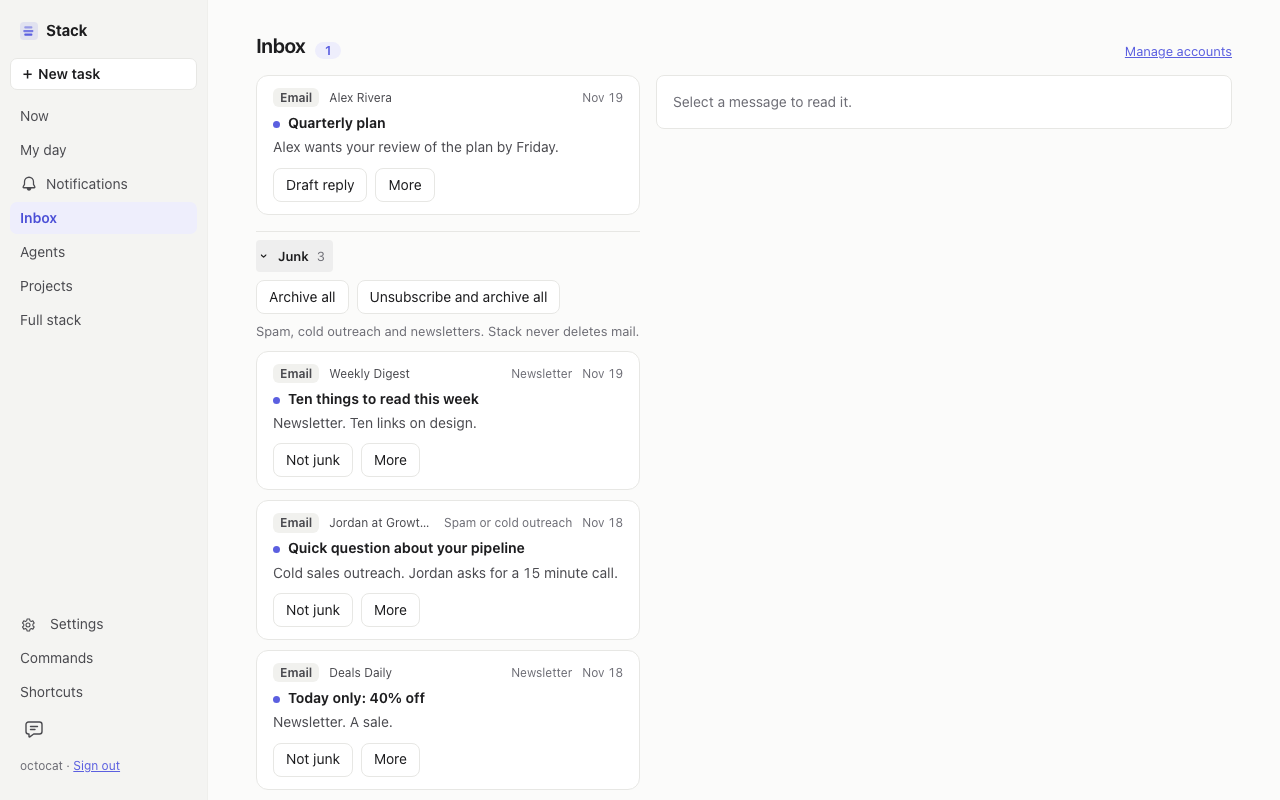
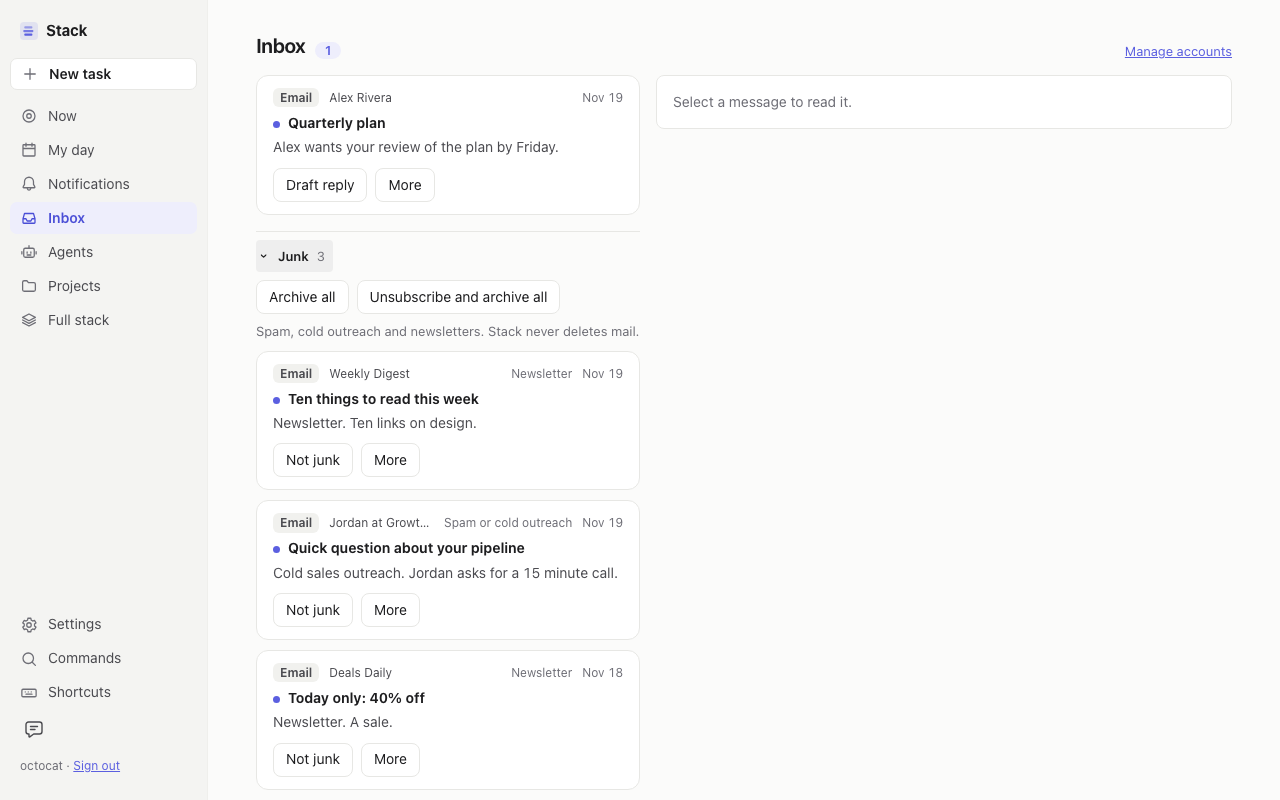
fix(inbox-page): Clear only the junk rows the owner sees, from a form

diff --git a/tests/api/inbox-junk.test.ts b/tests/api/inbox-junk.test.ts
@@ -1,9 +1,11 @@
 import { createApiHandler, ROUTES } from '../../src/api/handler';
 import { routeScope } from '../../src/api';
 import { MemoryStorage } from '../../src/core/storage';
+import { mailWrites } from '../../src/cli/web';
 import { INBOX_PATH, type InboxItem, type JunkMailbox } from '../../src/inbox';
 
 const item = (o: Partial<InboxItem> = {}): InboxItem => ({ id: 'mail-aaaaaaaaaaaa', source: 'email', account: 'me@example.test', from: 'Weekly Digest', subject: 'Ten things', receivedAt: '2026-10-28T09:00:00Z', unread: true, urgency: 0, summary: 'Newsletter.', suggested: 'unsubscribe', actions: ['not-junk'], messageId: 'AAMk1', kind: 'newsletter', ...o });
+const IDS = ['mail-aaaaaaaaaaaa', 'mail-bbbbbbbbbbbb'];
 const OWNER = { 'x-ms-client-principal': Buffer.from(JSON.stringify({ userDetails: 'me', identityProvider: 'github', userRoles: ['authenticated'] })).toString('base64'), 'content-type': 'application/json' };
 
 async function mk(junkMailbox?: (account: string) => Promise<JunkMailbox | undefined>) {
@@ -23,14 +25,16 @@ describe('POST /inbox-junk', () => {
   it('archives the junk and answers the counts', async () => {
     const log: string[] = [];
     const { call } = await mk(async () => ({ archive: async (ids) => { log.push(`archive ${ids.join(',')}`); return ids; }, unsubscribe: async (id) => { log.push(`unsubscribe ${id}`); return true; } }));
-    expect((await call('POST', '/inbox-junk', { action: 'unsubscribe-archive' })).json).toEqual({ archived: 1, unsubscribed: 1, kept: 0 });
+    expect((await call('POST', '/inbox-junk', { action: 'unsubscribe-archive', ids: IDS })).json).toEqual({ archived: 1, unsubscribed: 1, kept: 0 });
     expect(log).toEqual(['unsubscribe AAMk1', 'archive AAMk1']);
     expect((await call('GET', '/inbox-items')).json.items.map((i: InboxItem) => i.id)).toEqual(['mail-bbbbbbbbbbbb']);
   });
   // @req FR:inbox-page/junk.archive.readonly
   it('keeps everything on a host that cannot write to the mailbox', async () => {
     const { call } = await mk();
-    expect((await call('POST', '/inbox-junk', { action: 'archive' })).json).toEqual({ archived: 0, unsubscribed: 0, kept: 1 });
+    expect((await call('POST', '/inbox-junk', { action: 'archive', ids: IDS })).json).toEqual({ archived: 0, unsubscribed: 0, kept: 1 });
+    expect((await call('POST', '/inbox-junk', { action: 'archive' })).status).toBe(422);
+    expect((await call('POST', '/inbox-junk', { action: 'archive', ids: [] })).json).toEqual({ archived: 0, unsubscribed: 0, kept: 0 });
   });
   // @req FR:inbox-page/junk.never.auto
   it('a read of the inbox never touches the mailbox', async () => {
@@ -42,8 +46,13 @@ describe('POST /inbox-junk', () => {
   // @req FR:inbox-page/junk.api.owner
   it('refuses a token and an unknown action', async () => {
     const { call } = await mk();
-    expect((await call('POST', '/inbox-junk', { action: 'archive' }, { authorization: 'Bearer stk_0123456789abcdef.secret', 'content-type': 'application/json' })).status).toBe(403);
-    expect((await call('POST', '/inbox-junk', { action: 'delete' })).status).toBe(422);
+    expect((await call('POST', '/inbox-junk', { action: 'archive', ids: IDS }, { authorization: 'Bearer stk_0123456789abcdef.secret', 'content-type': 'application/json' })).status).toBe(403);
+    expect((await call('POST', '/inbox-junk', { action: 'delete', ids: IDS })).status).toBe(422);
+  });
+  // @req FR:inbox-page/junk.never.demo
+  it('a demo copy gets no mailbox writer', () => {
+    expect(mailWrites(true)).toEqual({});
+    expect(Object.keys(mailWrites(false))).toEqual(['junkMailbox']);
   });
   // @req FR:inbox-page/junk.restore
   it('not-junk runs through the action route', async () => {

diff --git a/tests/inbox/junk.test.ts b/tests/inbox/junk.test.ts
@@ -41,6 +41,7 @@ describe('not-junk', () => {
   });
 });
 
+const ALL = ['mail-aaaaaaaaaaaa', 'mail-bbbbbbbbbbbb', 'mail-cccccccccccc', 'mail-dddddddddddd', 'mail-eeeeeeeeeeee', 'mail-ffffffffffff'];
 function box(o: { fail?: string[]; oneClick?: string[] } = {}) {
   const log: string[] = [];
   const mailbox: JunkMailbox = {
@@ -55,27 +56,36 @@ describe('clearJunk', () => {
   it('archives exactly the junk ids of each writable account and removes those items', async () => {
     const ctx = await mk([item(), SPAM, REAL, OTHER, item({ id: 'mail-eeeeeeeeeeee', messageId: 'AAMk5', notJunk: true })]);
     const b = box();
-    const r = await clearJunk(ctx, { unsubscribe: false, mailbox: async (a) => (a === 'me@example.test' ? b.mailbox : undefined) });
+    const r = await clearJunk(ctx, { ids: ALL, unsubscribe: false, mailbox: async (a) => (a === 'me@example.test' ? b.mailbox : undefined) });
     expect(b.log).toEqual(['archive AAMk1,AAMk2']);
     expect(r).toEqual({ archived: 2, unsubscribed: 0, kept: 1 });
     expect((await readInbox(ctx.storage)).map((i) => i.id).sort()).toEqual(['mail-cccccccccccc', 'mail-dddddddddddd', 'mail-eeeeeeeeeeee']);
   });
+  // @req FR:inbox-page/junk.archive.shown
+  it('leaves alone junk the owner did not see: only the listed ids move or unsubscribe', async () => {
+    const ctx = await mk([item(), SPAM, item({ id: 'mail-ffffffffffff', messageId: 'AAMk6' })]);
+    const b = box({ oneClick: ['AAMk1', 'AAMk6'] });
+    const r = await clearJunk(ctx, { ids: ['mail-aaaaaaaaaaaa', 'mail-cccccccccccc', 'nope'], unsubscribe: true, mailbox: async () => b.mailbox });
+    expect(b.log).toEqual(['unsubscribe AAMk1', 'archive AAMk1']);
+    expect(r).toEqual({ archived: 1, unsubscribed: 1, kept: 0 });
+    expect((await readInbox(ctx.storage)).map((i) => i.id).sort()).toEqual(['mail-bbbbbbbbbbbb', 'mail-ffffffffffff']);
+  });
   it('keeps an item whose move failed', async () => {
     const ctx = await mk([item(), SPAM]);
-    const r = await clearJunk(ctx, { unsubscribe: false, mailbox: async () => box({ fail: ['AAMk2'] }).mailbox });
+    const r = await clearJunk(ctx, { ids: ALL, unsubscribe: false, mailbox: async () => box({ fail: ['AAMk2'] }).mailbox });
     expect(r).toEqual({ archived: 1, unsubscribed: 0, kept: 1 });
     expect((await readInbox(ctx.storage)).map((i) => i.id)).toEqual(['mail-bbbbbbbbbbbb']);
   });
   it('unsubscribes newsletters only, before the archive, and counts the one-click ones', async () => {
     const ctx = await mk([item(), SPAM, item({ id: 'mail-ffffffffffff', messageId: 'AAMk6' })]);
     const b = box({ oneClick: ['AAMk1'] });
-    const r = await clearJunk(ctx, { unsubscribe: true, mailbox: async () => b.mailbox });
+    const r = await clearJunk(ctx, { ids: ALL, unsubscribe: true, mailbox: async () => b.mailbox });
     expect(b.log).toEqual(['unsubscribe AAMk1', 'unsubscribe AAMk6', 'archive AAMk1,AAMk2,AAMk6']);
     expect(r).toEqual({ archived: 3, unsubscribed: 1, kept: 0 });
   });
   it('a mailbox that throws keeps its items', async () => {
     const ctx = await mk([item()]);
-    const r = await clearJunk(ctx, { unsubscribe: true, mailbox: async () => ({ archive: async () => { throw new Error('x'); }, unsubscribe: async () => { throw new Error('y'); } }) });
+    const r = await clearJunk(ctx, { ids: ALL, unsubscribe: true, mailbox: async () => ({ archive: async () => { throw new Error('x'); }, unsubscribe: async () => { throw new Error('y'); } }) });
     expect(r).toEqual({ archived: 0, unsubscribed: 0, kept: 1 });
     expect(await readInbox(ctx.storage)).toHaveLength(1);
   });

diff --git a/src/cli/web.ts b/src/cli/web.ts
@@ -86,6 +86,9 @@ export function prepareDemo(repo: string, dest: string, reset = false): void {
 }
 
 /** What the UI header shows at all times. */
+/** Mailbox writers for the API. A demo copy gets none: it never writes to a real mailbox. @req FR:inbox-page/junk.never.demo */
+export const mailWrites = (demo: boolean) => (demo ? {} : { junkMailbox: createJunkMailboxes() });
+
 export interface RepoInfo { mode: 'demo' | 'live'; repo: string; branch: string }
 export interface WebOpts {
   dir: string; port: number; webDir: string; label?: string; info?: RepoInfo; watch?: { debounceMs?: number; heartbeatMs?: number; onRaw?: (file: string) => void; watchFn?: WatchOptions['watchFn'] };
@@ -353,7 +356,7 @@ export async function startWeb(o: WebOpts): Promise<WebServer> {
     ...(agents && inventory ? { leads: { runs: agents, inventory, readDef: async (p: string) => { const f = resolve(o.dir, p); if (!f.startsWith(resolve(o.dir) + sep)) return null; try { return readFileSync(f, 'utf8'); } catch { return null; } } } } : {}) };
   const deliveryLoop = dd && dd.settings.mode === 'claude' ? startDeliveryLoop(dd, { intervalMs: o.delivery ? o.delivery.intervalMs : undefined, onError: (e) => console.error(`delivery: ${e instanceof Error ? e.message : 'error'}`) }) : undefined;
   const delivery = dd ? { status: (ref: string) => deliveryStatus(dd, ref, inventory), summary: () => ({ mode: dd.settings.mode, login: dd.store.read().login.state }), login: () => (o.delivery && o.delivery.login ? o.delivery.login() : startLogin()) } : undefined;
-  const apiDeps = { storage, config, reports, inventory, agentScan, delivery, pris, prPriority, feedback, qm, designReview: o.designReview ?? createDesignReview({ filer: ghIssueFiler() }), ...(prPage ?? {}), ...(prServers ? { prServers } : {}), live, briefs: new BriefStore(laneHome), facts: new FactsStore(laneHome), onError: (e: unknown) => console.error(e), prs, calendar: cal.provider, agents, brief: createClaudeJson(), inboxProbe: o.inboxProbe ?? cachedProbe({ health }), mailReader: o.mailReader ?? createMailReaders(), /* A demo copy never writes to a real mailbox. */ ...(o.info?.mode === 'demo' ? {} : { junkMailbox: createJunkMailboxes() }), ...(o.app ? { app: o.app } : {}), ...(connect ? { connect } : {}) };
+  const apiDeps = { storage, config, reports, inventory, agentScan, delivery, pris, prPriority, feedback, qm, designReview: o.designReview ?? createDesignReview({ filer: ghIssueFiler() }), ...(prPage ?? {}), ...(prServers ? { prServers } : {}), live, briefs: new BriefStore(laneHome), facts: new FactsStore(laneHome), onError: (e: unknown) => console.error(e), prs, calendar: cal.provider, agents, brief: createClaudeJson(), inboxProbe: o.inboxProbe ?? cachedProbe({ health }), mailReader: o.mailReader ?? createMailReaders(), ...mailWrites(o.info?.mode === 'demo'), ...(o.app ? { app: o.app } : {}), ...(connect ? { connect } : {}) };
   const api = createApiHandler({ ...apiDeps, authorize: () => true });
   // Device self endpoints (push subscription) run as the device token through the auth-security hook; no owner list, so no session ever matches. @req FR:tailnet-access/gate.scope
   const auth = remoteAuth ? createAuth({ owners: [], tokens: remoteAuth.tokens, devices: remoteAuth.devices, vapidPublicKey: process.env.STACK_VAPID_PUBLIC_KEY?.trim() || undefined }) : undefined;

diff --git a/web/src/InboxView.tsx b/web/src/InboxView.tsx
@@ -175,7 +175,7 @@ export function InboxView({ api, toast, onStatus, refresh }: { api: Client; toas
   /** One click clears the junk: the server moves it to Archive (never deletes) and answers the counts. @req FR:inbox-page/junk.archive @req FR:inbox-page/junk.unsubscribe */
   const clear = async (action: 'archive' | 'unsubscribe-archive') => {
     setClearing(true);
-    try { toast(junkToast(await api.inboxJunk(action))); await load(); } catch (e) { toast(e instanceof ApiFailure ? e.message : 'Could not clear Junk. Try again.', 'err'); }
+    try { toast(junkToast(await api.inboxJunk(action, junk.map((i) => i.id)))); await load(); } catch (e) { toast(e instanceof ApiFailure ? e.message : 'Could not clear Junk. Try again.', 'err'); }
     setClearing(false);
   };
   /** Not junk keeps the row and moves it to the list; every other action removes the row. */
@@ -198,14 +198,13 @@ export function InboxView({ api, toast, onStatus, refresh }: { api: Client; toas
           reader wide={wide} open={!!open} label="Message" empty="Select a message to read it." onBack={() => setSel(null)}
           list={(
             <>
-              {main.length === 0 && <p class="in-status" role="status">No mail needs you.</p>}
               <ul class="in-list">{main.map((r) => row(r, false))}</ul>
               {junk.length > 0 && (
                 <Fold id="inbox-junk" title="Junk" count={junk.length} aside={(
-                  <>
-                    <button type="button" class="btn" disabled={clearing} onClick={() => void clear('archive')}>Archive all</button>
-                    <button type="button" class="btn" disabled={clearing} onClick={() => void clear('unsubscribe-archive')}>Unsubscribe and archive all</button>
-                  </>
+                  <form class="in-junk-form" onSubmit={(e) => { e.preventDefault(); void clear(((e as SubmitEvent).submitter as HTMLButtonElement | null)?.value === 'unsubscribe-archive' ? 'unsubscribe-archive' : 'archive'); }}>
+                    <button type="submit" class="btn" value="archive" disabled={clearing}>Archive all</button>
+                    <button type="submit" class="btn" value="unsubscribe-archive" disabled={clearing}>Unsubscribe and archive all</button>
+                  </form>
                 )}>
                   <p class="in-junk-note">Spam, cold outreach and newsletters. Stack never deletes mail.</p>
                   <ul class="in-list">{junk.map((r) => row(r, true))}</ul>

diff --git a/src/api/handler.ts b/src/api/handler.ts
@@ -339,8 +339,8 @@ const INBOX_ACTION_BODY = {
   required: ['action'],
 };
 const INBOX_JUNK_BODY = {
-  schema: { action: { t: 'enum', values: ['archive', 'unsubscribe-archive'] } } satisfies Record<string, Spec>,
-  required: ['action'],
+  schema: { action: { t: 'enum', values: ['archive', 'unsubscribe-archive'] }, ids: { t: 'strs', max: 500 } } satisfies Record<string, Spec>,
+  required: ['action', 'ids'],
 };
 const ASK_HANDLE_BODY = {
   schema: { outcome: { t: 'enum', values: ASK_OUTCOMES }, note: { t: 'str', max: 500, line: true }, reply: { t: 'str', max: 1000, line: true } } satisfies Record<string, Spec>,
@@ -1246,8 +1246,8 @@ export const ROUTES: Route[] = [
     async run(c) {
       noQuery(c);
       ownerOnly(c, 'Only the owner can act on the inbox'); // @req FR:inbox-page/junk.api.owner
-      const b = validate<{ action: 'archive' | 'unsubscribe-archive' }>(await readBody(c.req), INBOX_JUNK_BODY.schema, INBOX_JUNK_BODY.required);
-      return json(200, await clearJunk(c.life, { unsubscribe: b.action === 'unsubscribe-archive', mailbox: c.deps.junkMailbox ?? (async () => undefined) }));
+      const b = validate<{ action: 'archive' | 'unsubscribe-archive'; ids: string[] }>(await readBody(c.req), INBOX_JUNK_BODY.schema, INBOX_JUNK_BODY.required);
+      return json(200, await clearJunk(c.life, { ids: b.ids, unsubscribe: b.action === 'unsubscribe-archive', mailbox: c.deps.junkMailbox ?? (async () => undefined) }));
     },
   },
   {

diff --git a/src/api/openapi.ts b/src/api/openapi.ts
@@ -299,7 +299,8 @@ const DOCS: Record<string, RouteDoc> = {
     responses: ok('Detail', { type: 'object', properties: { item: { type: 'object' }, live: { type: 'boolean' }, message: { type: 'object' }, thread: { type: 'array', items: { type: 'object' } } } }),
   },
   'inboxJunk.clear': {
-    operationId: 'clearInboxJunk', summary: 'Clear the Inbox junk (email items of kind spam or newsletter that the owner did not restore): move each to Archive, with unsubscribe-archive after a one-click unsubscribe where the sender offers one. Never deletes. kept counts items that stay (a read-only account, a failed move). Owner session only: 403 for tokens',
+    operationId: 'clearInboxJunk', summary: 'Clear the Inbox junk (email items of kind spam or newsletter that the owner did not restore): move each listed item (ids: the junk rows the owner sees) to Archive, with unsubscribe-archive after a one-click unsubscribe where the sender offers one. Junk not in ids is left alone. Never deletes. kept counts items that stay (a read-only account, a failed move). Owner session only: 403 for tokens',
+    desc: { ids: 'Item ids of the junk rows shown to the owner' },
     responses: ok('Counts', { type: 'object', properties: { archived: { type: 'integer' }, unsubscribed: { type: 'integer' }, kept: { type: 'integer' } } }),
   },
   'inboxSources.list': {

diff --git a/web/e2e/inbox-junk.spec.ts b/web/e2e/inbox-junk.spec.ts
@@ -58,7 +58,7 @@ test('Archive all clears the junk in one click and says what stays', async ({ pa
   await junkBtn(page).click();
   await page.getByRole('button', { name: 'Archive all', exact: true }).click();
   await expect(page.getByText('Archived 2. 1 stays: Stack cannot move that mail.')).toBeVisible();
-  expect(m.calls.at(-1)).toEqual({ path: '/inbox-junk', body: { action: 'archive' } });
+  expect(m.calls.at(-1)).toEqual({ path: '/inbox-junk', body: { action: 'archive', ids: ['mail-bbbbbbbbbbbb', 'mail-cccccccccccc', 'mail-dddddddddddd'] } });
   await expect(page.locator('#inbox-junk .in-row')).toHaveCount(1);
   await expect(page.locator('.in-row').first()).toContainText('Quarterly plan');
 });
@@ -68,5 +68,5 @@ test('Unsubscribe and archive all sends one request', async ({ page }) => {
   await junkBtn(page).click();
   await page.getByRole('button', { name: 'Unsubscribe and archive all' }).click();
   await expect(page.getByText('Unsubscribed from 1. Archived 2. 1 stays: Stack cannot move that mail.')).toBeVisible();
-  expect(m.calls.at(-1)).toEqual({ path: '/inbox-junk', body: { action: 'unsubscribe-archive' } });
+  expect(m.calls.at(-1)).toEqual({ path: '/inbox-junk', body: { action: 'unsubscribe-archive', ids: ['mail-bbbbbbbbbbbb', 'mail-cccccccccccc', 'mail-dddddddddddd'] } });
 });

diff --git a/web/e2e/mock.ts b/web/e2e/mock.ts
@@ -117,7 +117,7 @@ export async function mockApi(page: Page, opts: { tasks?: MockTask[]; agents?: M
     if (path === '/inbox-items') return json(route, 200, { items: m.inboxItems, actions: INBOX_CATALOG, ...m.inboxSources });
     if (path === '/inbox-sources') { m.sourceQueries.push(new URL(req.url()).search); return json(route, 200, m.inboxSources); }
     if (path === '/inbox-junk' && req.method() === 'POST') {
-      const junk = m.inboxItems.filter((i) => i.source === 'email' && (i.kind === 'spam' || i.kind === 'newsletter') && i.notJunk !== true);
+      const junk = m.inboxItems.filter((i) => (body.ids as string[]).includes(i.id as string) && i.source === 'email' && (i.kind === 'spam' || i.kind === 'newsletter') && i.notJunk !== true);
       const stay = junk.filter((i) => i.account === 'readonly@example.test');
       m.inboxItems = m.inboxItems.filter((i) => !junk.includes(i) || stay.includes(i));
       return json(route, 200, { archived: junk.length - stay.length, unsubscribed: body.action === 'unsubscribe-archive' ? junk.filter((i) => i.kind === 'newsletter' && !stay.includes(i)).length : 0, kept: stay.length });

diff --git a/src/inbox/junk.ts b/src/inbox/junk.ts
@@ -17,8 +17,10 @@ export interface JunkMailbox {
 }
 export interface JunkResult { archived: number; unsubscribed: number; /** Junk items that stay: a read-only account or a failed move. */ kept: number }
 
-export async function clearJunk(ctx: LifecycleContext, o: { unsubscribe: boolean; mailbox: (account: string) => Promise<JunkMailbox | undefined> }): Promise<JunkResult> {
-  const junk = (await readInbox(ctx.storage)).filter((i) => isJunk(i) && i.messageId);
+/** `ids`: the junk item ids the owner saw when he clicked. Junk that arrived after the page loaded is left alone. @req FR:inbox-page/junk.archive.ids */
+export async function clearJunk(ctx: LifecycleContext, o: { ids: readonly string[]; unsubscribe: boolean; mailbox: (account: string) => Promise<JunkMailbox | undefined> }): Promise<JunkResult> {
+  const shown = new Set(o.ids);
+  const junk = (await readInbox(ctx.storage)).filter((i) => shown.has(i.id) && isJunk(i) && i.messageId);
   const out: JunkResult = { archived: 0, unsubscribed: 0, kept: 0 };
   const gone = new Set<string>();
   for (const account of [...new Set(junk.map((i) => i.account))]) {

diff --git a/tests/api/openapi.test.ts b/tests/api/openapi.test.ts
@@ -310,7 +310,7 @@ describe('response parity (real handler output vs documented schemas)', () => {
     await go('connect.remove', 'POST', '/connect/remove', { account: 'nope' }, 422);
     await go('connect.remove', 'POST', '/connect/remove', { account: '' }, 200);
     await go('inboxItems.detail', 'GET', '/inbox-items/mail-000000000000/detail', undefined, 404);
-    await go('inboxJunk.clear', 'POST', '/inbox-junk', { action: 'archive' }, 200);
+    await go('inboxJunk.clear', 'POST', '/inbox-junk', { action: 'archive', ids: [] }, 200);
     await go('inboxItems.action', 'POST', '/inbox-items/mail-000000000000/action', { action: 'mark-done' }, 404);
     await go('capture', 'POST', '/capture', { text: 'call dentist tomorrow 30m #alpha', dryRun: true }, 200);
     await go('capture', 'POST', '/capture', { text: 'call dentist tomorrow 30m #alpha' }, 201);

diff --git a/web/src/ui/send-guard.ts b/web/src/ui/send-guard.ts
@@ -13,7 +13,7 @@ import ts from 'typescript';
  */
 export const SENDERS: readonly string[] = [
   // The API client (`web/src/api.ts`).
-  'api.promptSession', 'api.newSession', 'api.send', 'api.assign', 'api.review', 'api.answerAsk', 'api.answerNeed', 'api.decideRec', 'api.inboxAct', 'api.prAck', 'api.prRec', 'api.feedback', 'api.designReview',
+  'api.promptSession', 'api.newSession', 'api.send', 'api.assign', 'api.review', 'api.answerAsk', 'api.answerNeed', 'api.decideRec', 'api.inboxAct', 'api.inboxJunk', 'api.prAck', 'api.prRec', 'api.feedback', 'api.designReview',
   // Hooks and props that pass a send on.
   'team.assign', 'team.review', 'team.start', 'th.ask', 'th.assign', 'th.answer', 'asks.answer', 'asks.reply', 's.send', 's.start', 'onSend', 'onAsk', 'onDo', 'onAnswer', 'onAccept', 'onReply', 'sendToSession',
 ];

diff --git a/web/src/inbox.css b/web/src/inbox.css
@@ -57,4 +57,5 @@
 }
 /* Junk section. @req FR:inbox-page/junk.group @req FR:inbox-page/junk.group.reason */
 .in-why { flex: none; color: var(--muted); }
+.in-junk-form { display: flex; flex-wrap: wrap; gap: 8px; }
 .in-junk-note { margin: 0 0 10px; font-size: 13px; color: var(--muted); }
